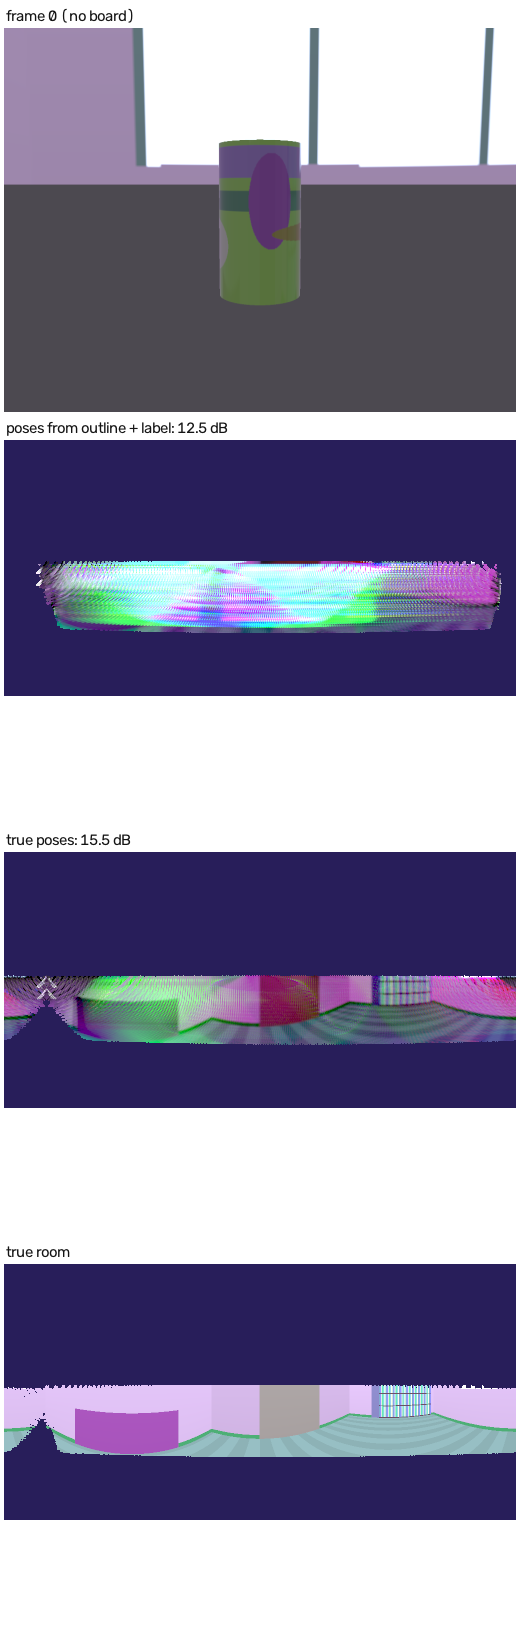
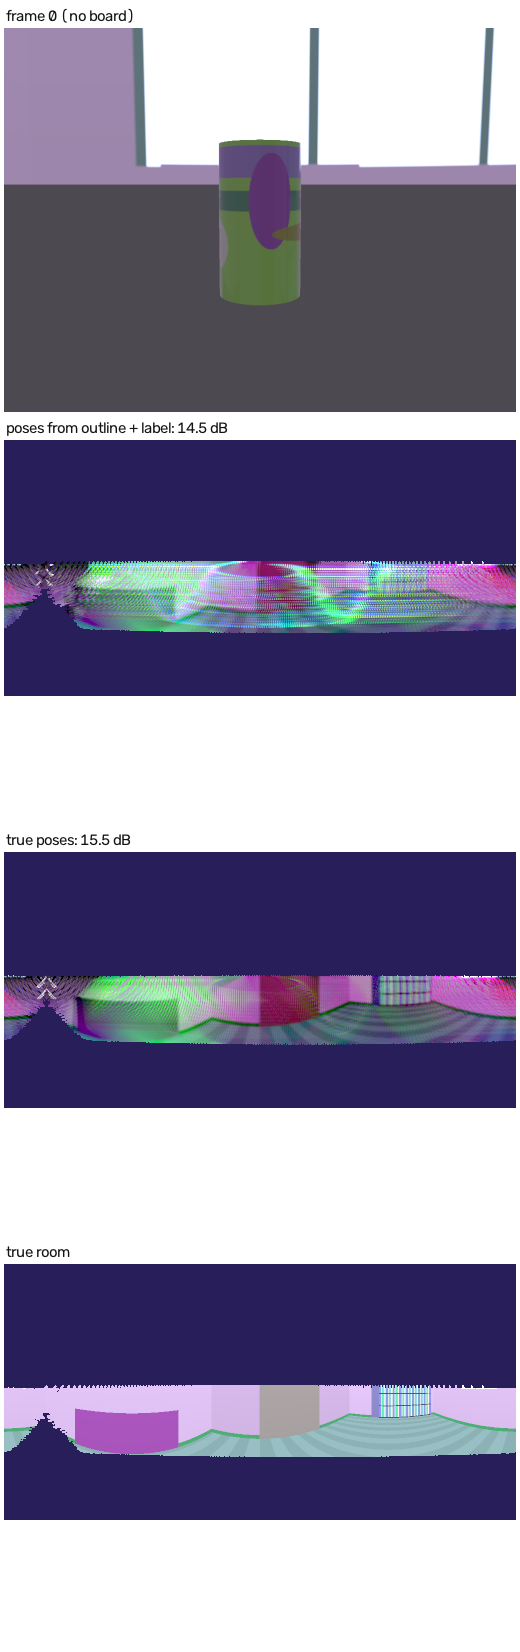
Fix no-board azimuth on shiny cans: separate label from view-locked background
On a coat whose reflection outweighs the label, matching raw label strips locked
onto the reflection (which moves with the camera), so the angle around the can
stopped tracking (median 18 deg, 51 deg by frame 39). The label match now:
- splits into two passes (track_outline, track_azimuth / azimuth_from_strips)
- removes a running median over +-20 frames in the view frame before tracking
- refines with a joint fit strip_i = label(s + az_i) + background(s)

Shiny scene: median 2.4 deg / 12 mm (was 18 deg / 86 mm). Printed-can test:
1.3 deg / 7 mm / 0.5 deg azimuth. New fast test on synthetic strips.

Changed region(s): [[0.0, 0.3396, 1.0, 0.4013], [0.0923, 0.8644, 0.1538, 0.8953]]

diff --git a/sodacan/capture/pose_silhouette.py b/sodacan/capture/pose_silhouette.py
@@ -30,6 +30,7 @@ body: set `rim_radius` and `base_radius` in configs/can.yaml (about 0.027 m and 
 a 12 oz can; measure yours). Without them both equal the body radius, as in the simulator.
 """
 import math
+import warnings
 from dataclasses import dataclass, field
 
 import cv2
@@ -531,35 +532,76 @@ def smooth_track(values, ok, window=5):
     return out
 
 
-def estimate_poses_silhouette(frames_rgb, frames_lin, K, can, roi=None, azimuth_cols=1440, max_step_deg=12.0,
-                              max_residual_px=3.0, smooth=0, redetect_every=10, log=None):
-    """Poses (list of SilhouettePose) for a video of a printed can, no board needed.
-
-    frames_rgb: list of uint8 RGB frames (undistorted); frames_lin: (B, 3, H, W) linear
-    tensor of the same frames (for the label match). roi = (x0, y0, x1, y1) limits the
-    first frame's search to a box around the can. smooth = window (frames) of the temporal
-    smoothing of the five outline parameters and the azimuth; 0 turns it off. Frames must
-    be in capture order and close together (stride of a few frames at 30 fps). Every
-    redetect_every-th frame also searches for the walls from scratch, so tracking cannot
-    stay stuck on a wrong edge."""
-    out = []
-    prev = None
-    ref = ref_m = None
-    ref_n = None
-    az_prev = 0.0
-    col_deg = 360.0 / azimuth_cols
+def track_outline(frames_rgb, K, can, roi=None, max_residual_px=3.0, redetect_every=10):
+    """Pass 1: the five outline parameters of every frame (None where the outline does
+    not fit). Returns a list of (params or None, residual_px, reason)."""
+    out, prev = [], None
     for i, rgb in enumerate(frames_rgb):
         edges, dist = edge_map(rgb, roi if prev is None else None)
         p, resid, walls = fit_frame(edges, dist, K, can, prev, detect=prev is None or i % redetect_every == 0)
         if p is None:
-            out.append(SilhouettePose(None, float("inf"), info={"reason": "no wall pair"}))
+            out.append((None, float("inf"), "no wall pair"))
+        elif not resid <= max_residual_px:
+            out.append((None, resid, "outline does not fit"))
+        else:
+            prev = p
+            out.append((p, resid, ""))
+    return out
+
+
+def view_locked_background(strips, masks, window):
+    """Per frame, the masked running median of the strips over +-window frames, in the
+    canonical (camera on +x) surface frame. Anything locked to the view rather than to the
+    label stays put there: limb Fresnel brightening, highlights, the coverage edge, and much
+    of the room's reflection, which slides at half the label's speed. The label slides
+    through at the camera's angular speed and drops out of the median."""
+    G = np.stack(strips)
+    M = np.stack(masks) > 0
+    out = []
+    for i in range(len(strips)):
+        lo, hi = max(0, i - window), min(len(strips), i + window + 1)
+        g = np.where(M[lo:hi], G[lo:hi], np.nan)
+        with warnings.catch_warnings():
+            warnings.simplefilter("ignore", RuntimeWarning)  # all-NaN columns (never observed)
+            med = np.nanmedian(g, 0)
+        out.append(np.nan_to_num(med) * masks[i])
+    return out
+
+
+def track_azimuth(frames_lin, params, K, can, azimuth_cols=1440, max_step_deg=12.0, background_window=20,
+                  refine=True):
+    """Pass 2: the camera's angle around the can (degrees, frame 0 = 0) from the label,
+    with the view-locked background removed first (background_window = 0 keeps it).
+    Returns lists of azimuths and match scores (None where params is None)."""
+    strips, masks, idx = [], [], []
+    for i, p in enumerate(params):
+        if p is None:
             continue
-        if not resid <= max_residual_px:
-            out.append(SilhouettePose(None, resid, info={"reason": "outline does not fit"}))
-            continue
-        prev = p
-        c2w_c = params_to_c2w(p)
-        g, m = label_strip(frames_lin[i], c2w_c, K, can, azimuth_cols)
+        g, m = label_strip(frames_lin[i], params_to_c2w(p), K, can, azimuth_cols)
+        strips.append(g)
+        masks.append(m)
+        idx.append(i)
+    az_out, score_out = [None] * len(params), [None] * len(params)
+    if idx:
+        az, sc = azimuth_from_strips(strips, masks, azimuth_cols, max_step_deg, background_window, refine)
+        for j, i in enumerate(idx):
+            az_out[i], score_out[i] = az[j], sc[j]
+    return az_out, score_out
+
+
+def azimuth_from_strips(strips, masks, azimuth_cols, max_step_deg=12.0, background_window=20, refine=True):
+    """Azimuths (degrees, first = 0) and match scores of a sequence of label strips:
+    frame-to-frame tracking against a growing reference after removing the view-locked
+    background, then the joint label + background fit (refine_azimuth)."""
+    col_deg = 360.0 / azimuth_cols
+    raw = strips
+    if background_window and len(strips) > 2:
+        bg = view_locked_background(strips, masks, background_window)
+        strips = [g - b for g, b in zip(strips, bg)]
+    az_out, score_out = [], []
+    ref = ref_m = ref_n = None
+    az_prev = 0.0
+    for g, m in zip(strips, masks):
         if ref is None:
             az, score = 0.0, 1.0
             ref, ref_m, ref_n = g.copy(), m.copy(), m.copy()
@@ -574,11 +616,76 @@ def estimate_poses_silhouette(frames_rgb, frames_lin, K, can, roi=None, azimuth_
             ref_n = ref_n + ms
             ref_m = (ref_n > 0).astype(np.float32)
         az_prev = az
+        az_out.append(az)
+        score_out.append(score)
+    if refine and len(raw) > 2:
+        az_out, score_out = refine_azimuth(raw, masks, az_out, azimuth_cols)
+    return az_out, score_out
+
+
+def refine_azimuth(strips, masks, az_deg, azimuth_cols, iters=6, search_deg=4.0):
+    """Joint fit of strip_i(s) = label(s + az_i) + background(s): the label is fixed to the
+    can, the background to the view (limb Fresnel brightening, highlights, most of the
+    room's reflection). Alternates (1) the label as the mean of the background-free strips
+    shifted into frame-0 coordinates, (2) the background as the mean, in the canonical
+    frame, of what the label does not explain, (3) each azimuth by matching its
+    background-free strip to the label within +-search_deg of the last estimate. Frame 0
+    stays at 0. Returns azimuths (degrees) and match scores."""
+    col_deg = 360.0 / azimuth_cols
+    G, M = np.stack(strips), np.stack(masks)
+    k = np.array(az_deg, dtype=float) / col_deg
+    B = np.zeros_like(G[0])
+    scores = np.ones(len(G))
+    for _ in range(iters):
+        ki = np.round(k).astype(int)
+        num, den = np.zeros_like(G[0]), np.zeros_like(G[0])
+        for g, m, kk in zip(G, M, ki):
+            num += np.roll((g - B) * m, kk, axis=1)
+            den += np.roll(m, kk, axis=1)
+        L = num / np.maximum(den, 1)
+        Lm = (den > 0).astype(np.float32)
+        num, den = np.zeros_like(G[0]), np.zeros_like(G[0])
+        for g, m, kk in zip(G, M, ki):
+            w = m * np.roll(Lm, -kk, axis=1)
+            num += (g - np.roll(L, -kk, axis=1)) * w
+            den += w
+        B = num / np.maximum(den, 1)
+        new_k = k.copy()
+        for i in range(1, len(G)):
+            new_k[i], scores[i] = register_shift((G[i] - B) * M[i], M[i], L, Lm, int(search_deg / col_deg), int(round(k[i])))
+        new_k -= new_k[0]
+        done = np.max(np.abs(new_k - k)) < 0.25
+        k = new_k
+        if done:
+            break
+    return list(k * col_deg), list(scores)
+
+
+def estimate_poses_silhouette(frames_rgb, frames_lin, K, can, roi=None, azimuth_cols=1440, max_step_deg=12.0,
+                              max_residual_px=3.0, smooth=0, redetect_every=10, background_window=20, log=None):
+    """Poses (list of SilhouettePose) for a video of a printed can, no board needed.
+
+    frames_rgb: list of uint8 RGB frames (undistorted); frames_lin: (B, 3, H, W) linear
+    tensor of the same frames (for the label match). roi = (x0, y0, x1, y1) limits the
+    first frame's search to a box around the can. smooth = window (frames) of the temporal
+    smoothing of the five outline parameters and the azimuth; 0 turns it off. Frames must
+    be in capture order and close together (stride of a few frames at 30 fps). Every
+    redetect_every-th frame also searches for the walls from scratch, so tracking cannot
+    stay stuck on a wrong edge. background_window: frames on each side for the
+    view-locked background removed before the label match (see view_locked_background)."""
+    fits = track_outline(frames_rgb, K, can, roi, max_residual_px, redetect_every)
+    params = [f[0] for f in fits]
+    azs, scores = track_azimuth(frames_lin, params, K, can, azimuth_cols, max_step_deg, background_window)
+    out = []
+    for i, (p, resid, reason) in enumerate(fits):
+        if p is None:
+            out.append(SilhouettePose(None, resid, info={"reason": reason}))
+            continue
         # obs_i(s) = ref(s + az): the camera sits at +az relative to frame 0
-        c2w = rot_z(math.radians(az)) @ c2w_c
-        out.append(SilhouettePose(c2w, resid, az, score, info={"params": p}))
+        c2w = rot_z(math.radians(azs[i])) @ params_to_c2w(p)
+        out.append(SilhouettePose(c2w, resid, azs[i], scores[i], info={"params": p}))
         if log:
-            log(f"frame {i}: outline residual {resid:.2f} px, azimuth {az:+.2f} deg (match {score:.2f})")
+            log(f"frame {i}: outline residual {resid:.2f} px, azimuth {azs[i]:+.2f} deg (match {scores[i]:.2f})")
     if smooth and smooth > 1:
         ok = np.array([o.c2w is not None for o in out])
         vals = np.zeros((len(out), 6))

diff --git a/tests/test_pose_silhouette.py b/tests/test_pose_silhouette.py
@@ -11,7 +11,8 @@ import pytest
 import torch
 
 from sodacan.capture.pose_silhouette import (canonicalise, estimate_poses_silhouette, merge_collinear,
-                                             outline_points, params_to_c2w, c2w_to_params, rot_z)
+                                             outline_points, params_to_c2w, c2w_to_params, azimuth_from_strips,
+                                             rot_z)
 from sodacan.color import linear_to_srgb
 from sodacan.config import load_can, load_pipeline
 from sodacan.geometry.camera import Intrinsics, look_at
@@ -50,6 +51,25 @@ def test_merge_collinear_joins_a_broken_wall():
     assert len(out) == 2
     long = out[np.argmax(np.hypot(out[:, 2] - out[:, 0], out[:, 3] - out[:, 1]))]
     assert long[1] < 12 and long[3] > 118
+
+
+def test_label_match_ignores_a_view_locked_background():
+    """A shiny can: a background fixed to the view, three times stronger than the label,
+    which slides 1.5 degrees per frame. Matching raw strips is pulled to zero motion; the
+    background-free start plus the joint fit recovers the motion."""
+    rng = np.random.default_rng(0)
+    rows, cols, n, step = 24, 1440, 30, 6  # 6 columns = 1.5 degrees
+    smooth = lambda a: np.real(np.fft.ifft(np.fft.fft(a, axis=1) * (np.arange(cols) < 60), axis=1))  # noqa: E731
+    label, bg = smooth(rng.normal(size=(rows, cols))), 3 * smooth(rng.normal(size=(rows, cols)))
+    mask = np.zeros((rows, cols), np.float32)
+    mask[:, 500:940] = 1  # the band of the wall facing the camera, fixed in the view
+    true = np.arange(n) * step
+    strips = [(np.roll(label, -k, axis=1) + bg) * mask for k in true]
+    masks = [mask] * n
+    az, _ = azimuth_from_strips(strips, masks, cols)
+    assert np.max(np.abs(np.array(az) - true * 0.25)) < 0.3
+    raw, _ = azimuth_from_strips(strips, masks, cols, background_window=0, refine=False)
+    assert np.max(np.abs(np.array(raw) - true * 0.25)) > 3  # the failure being fixed
 
 
 @pytest.mark.slow

diff --git a/README.md b/README.md
@@ -77,7 +77,7 @@ Measured on an RTX 3050 laptop (4 GB) and Kaggle T4s, 18 Nov 2026. "Sim" means s
 | 1 Simulator | 10,000 pairs in one Kaggle session | **passes**: on Kaggle, 10k pairs in 37 min over two T4s (5k each); locally, 1.2–1.6 pairs/s on the 3050, so about 2.4 h (4.5 GB of shards) |
 | 1 Simulator | Blender frames through Phase 0 code | **passes**: 10 Cycles scenes (Blender 4.5, OptiX, 128 spp): 9 pass and 1 is skipped because the camera looks down and the can reflects only the table. Above the horizon, Cycles frames reconstruct the room at a median 17.9 dB and fast-renderer frames at 15.6 dB; the two agree at 18.2 dB (`tests/test_sim_vs_blender.py`, `figures/blender.*`) |
 | 2 Real capture | window and lights in the right places against a phone panorama | **needs a real video**. On synthetic board videos: ChArUco poses within 0.03° and 0.3 mm of the truth, mp4 → panorama at 31.4 dB (`tests/test_capture.py`) |
-| 2 Pose without a board | fallback from the can's outline | **works in simulation** (`capture/pose_silhouette.py`, `--no-board`): on a printed can with no board, 15 of 16 frames were posed, with median errors of 1.2° and 7 mm, and 0.1° around the can's axis (`tests/test_pose_silhouette.py`, `figures/silhouette.*`). That is about 40× less accurate than the board and takes about 6 s per frame, so the board stays the default. **Limit:** on a shinier coat (reflection strength 1.0 instead of 0.6, `figures/silhouette.*`) the room's reflection outweighs the label, the label match locks onto the reflection (which moves with the camera), and the angle around the can stops tracking: all 40 frames posed, but the error grows by about 1.25° per frame to 51° at frame 39 (median 18°, 86 mm). The outline part stays right; a fix would mask or down-weight the reflection before matching |
+| 2 Pose without a board | fallback from the can's outline | **works in simulation** (`capture/pose_silhouette.py`, `--no-board`). The outline gives five of the six pose numbers; the label gives the angle around the can, after removing what is locked to the view (the reflection and the bright edges) by a joint fit of label plus background. On a printed can with no board: 15 of 16 frames posed, median errors 1.3° and 7 mm, 0.5° around the axis (`tests/test_pose_silhouette.py`). On a shinier coat whose reflection outweighs the label (strength 1.0, 40 frames over 60°): all frames posed, median 2.4° and 12 mm, worst angle error 2.4°, and the panorama comes out at 14.5 dB against 15.5 dB from the true poses (`figures/silhouette.*`); matching the raw label there drifted to 51°. About 40× less accurate than the board and about 6 s per frame, so the board stays the default |
 | 3 Restoration | beats classical on held-out sim rooms in PSNR and LPIPS | **passes (sim)**, all three architectures, 64 held-out rooms (`figures/restore_table.md`). Classical: 17.7 dB, SSIM 0.45, LPIPS 0.53. U-Net, L1 only, 5k steps: 21.8 dB, 0.68, 0.43. **U-Net with LPIPS, 30k steps on 10k pairs (local, 3.6 h): 23.6 dB, 0.77, 0.23**, the best on every metric. RTLViT-style, 15k steps (local): 22.7 dB, 0.71, 0.26. ViT-5-style, 15k steps (Kaggle T4): 22.4 dB, 0.73, 0.27 |
 | 3 Restoration | visibly sharper on three real rooms | **not checked**: no real rooms yet. On simulation the LPIPS term fixed the L1 model's blur (LPIPS 0.43 → 0.23; `figures/sim_example.png`). Training first ran with LPIPS silently doing nothing: `linear_to_srgb` had a NaN gradient at 0, and AMP's scaler skipped every step, so the fix (`color.py`) and fp32 LPIPS (`restore/losses.py`) come with tests |
 | 4 Demo | 10 s clip end to end in < 60 s on the 3050 | **passes**: 9.7 s for 1080p30, 26.5 s for 4K30 (`scripts/benchmark_demo.py`, synthetic clip). The app was driven end to end through its API |
